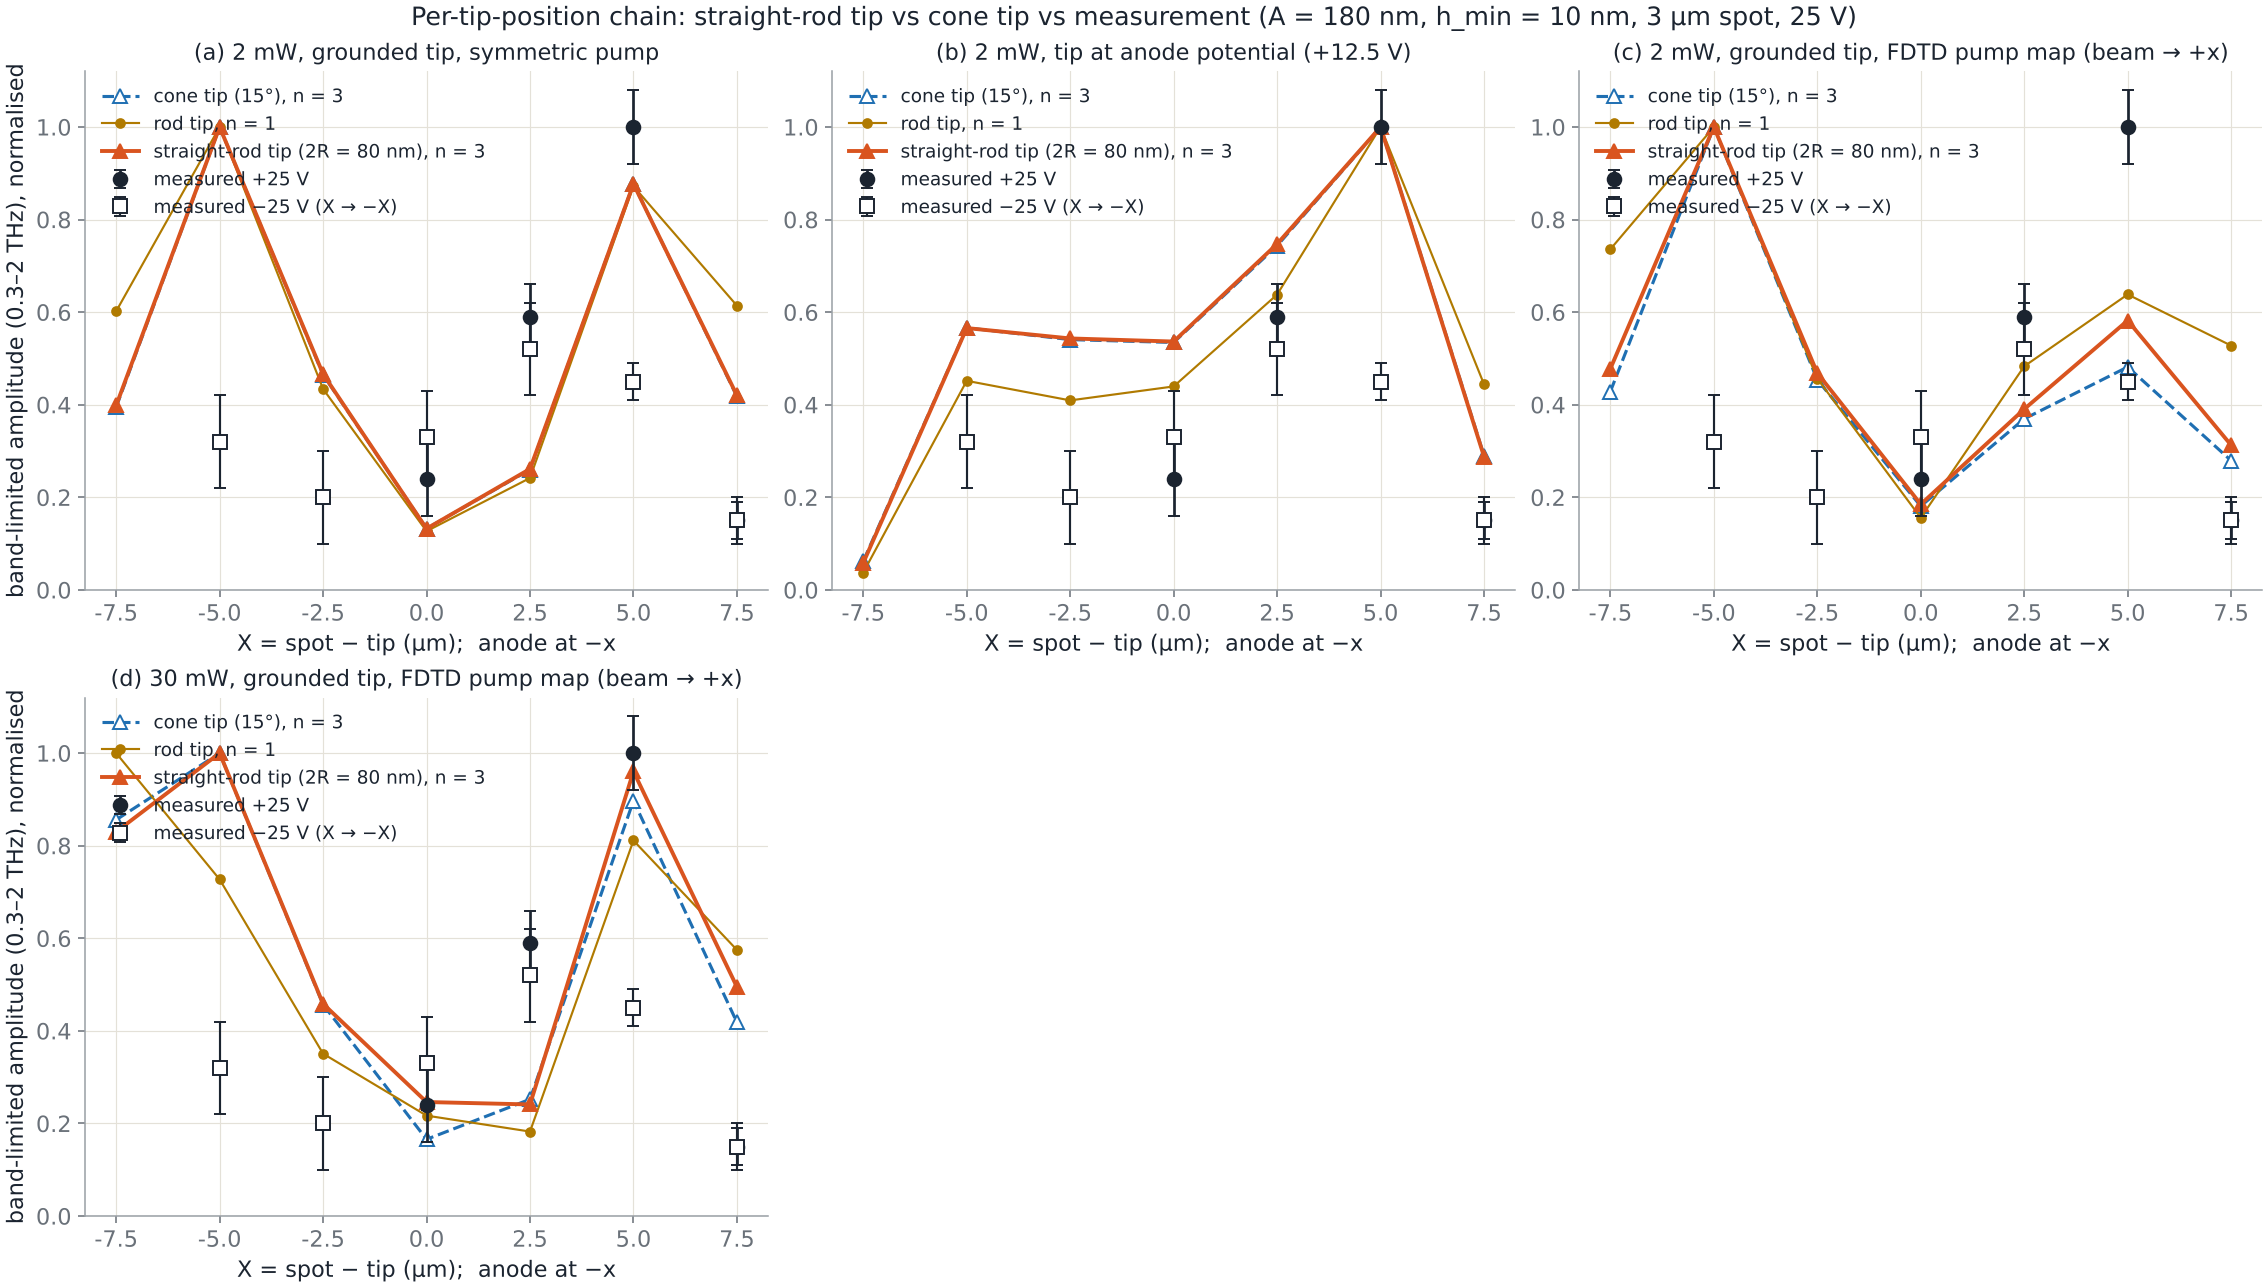
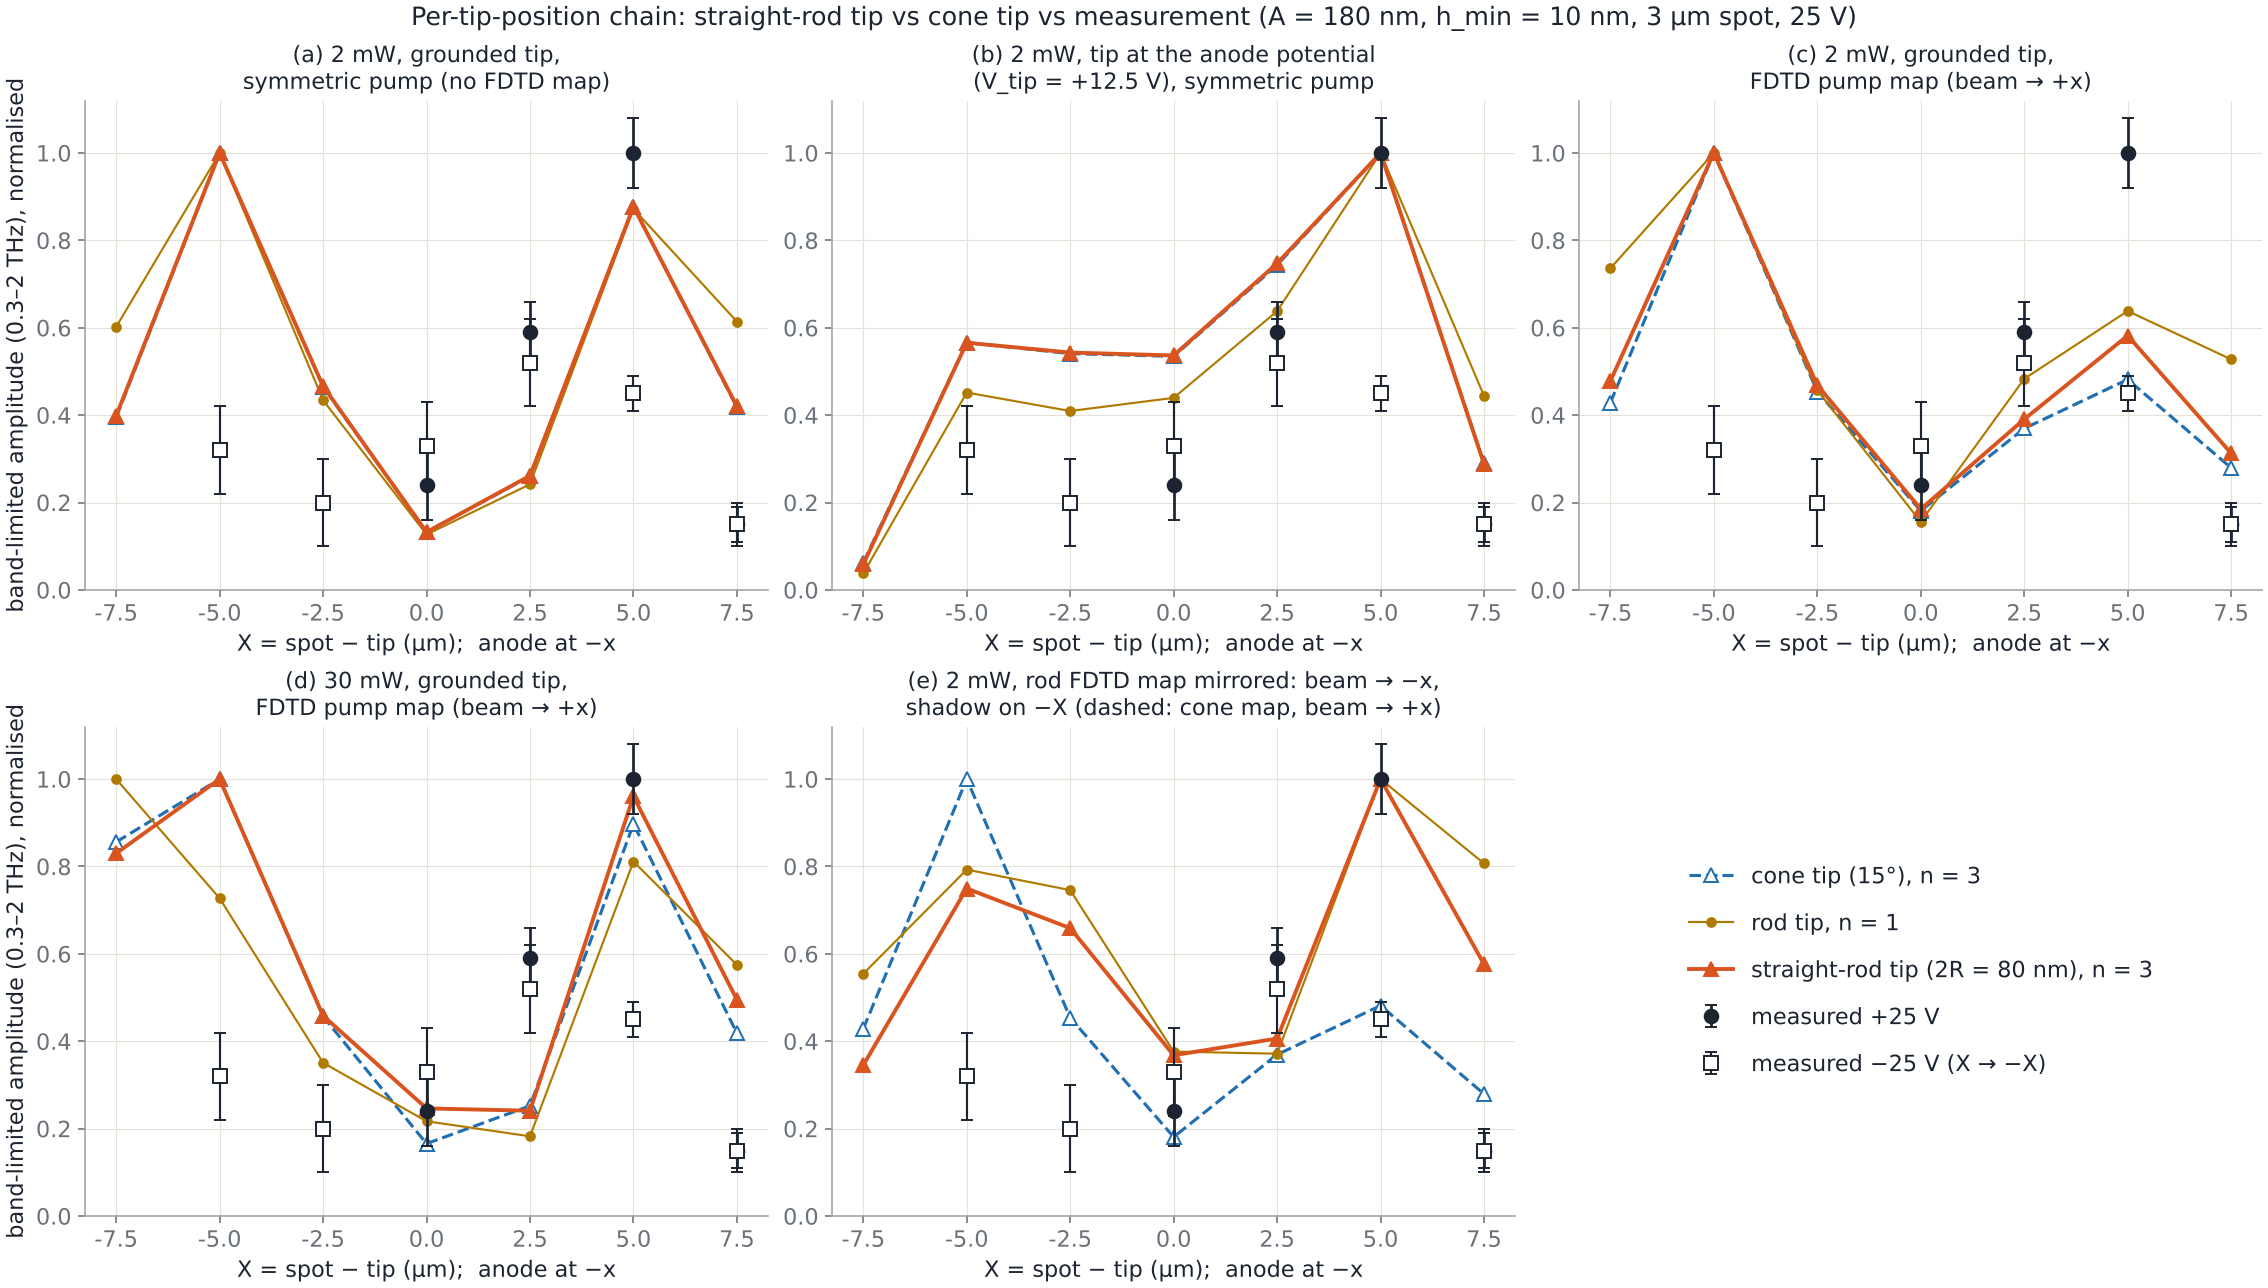
Rod tip with the x-mirrored pump map (beam toward -x): 0.35/0.75/0.66/0.37/0.41/1.00/0.58; docs section on the rod tip
Comparison figure: one panel per variant, shared legend; summary table and conclusions in docs/pulse_chain.md.

Claude-Session: https://claude.ai/code/session_01MEJWfDtRzYiPnCVcDujiXb

diff --git a/scripts/compare_tip_shape.py b/scripts/compare_tip_shape.py
@@ -32,11 +32,11 @@ plt.rcParams.update({"axes.unicode_minus": False, "axes.spines.top": False, "axe
                      "font.size": 11.5, "axes.titlesize": 12.5, "axes.labelsize": 11.5, "legend.fontsize": 9.5,
                      "savefig.facecolor": "white", "figure.facecolor": "white", "axes.facecolor": "white"})
 
-DEFAULT_PAIRS = (("2 mW, grounded tip, symmetric pump", "P2mW_sym", "P2mW_sym_rod"),
-                 ("2 mW, tip at anode potential (+12.5 V)", "P2mW_sym_Vtip12", "P2mW_sym_Vtip12_rod"),
-                 ("2 mW, grounded tip, FDTD pump map (beam → +x)", "P2mW_tipmap", "P2mW_tipmap_rod"),
-                 ("30 mW, grounded tip, FDTD pump map (beam → +x)", "P30mW_tipmap", "P30mW_tipmap_rod"),
-                 ("2 mW, rod map mirrored (beam → −x, shadow on −X)", "P2mW_tipmap", "P2mW_tipmap_rod_mirror"))
+DEFAULT_PAIRS = (("2 mW, grounded tip,\nsymmetric pump (no FDTD map)", "P2mW_sym", "P2mW_sym_rod"),
+                 ("2 mW, tip at the anode potential\n(V_tip = +12.5 V), symmetric pump", "P2mW_sym_Vtip12", "P2mW_sym_Vtip12_rod"),
+                 ("2 mW, grounded tip,\nFDTD pump map (beam → +x)", "P2mW_tipmap", "P2mW_tipmap_rod"),
+                 ("30 mW, grounded tip,\nFDTD pump map (beam → +x)", "P30mW_tipmap", "P30mW_tipmap_rod"),
+                 ("2 mW, rod FDTD map mirrored: beam → −x,\nshadow on −X (dashed: cone map, beam → +x)", "P2mW_tipmap", "P2mW_tipmap_rod_mirror"))
 
 measured = load_measured(os.path.join(ROOT, "data", "measured_tip_scan.csv"))
 
@@ -60,7 +60,7 @@ def table(pairs):
         sc, sr = load(cone), load(rod)
         if sc is None and sr is None:
             continue
-        lines.append(f"\n## {label}")
+        lines.append(f"\n## {label.replace(chr(10), ' ')}")
         X = (sr or sc)["X"]
         lines.append("| run | " + " | ".join(f"X = {x:+g}" for x in X) + " | abs. max (n=3) |")
         lines.append("|---|" + "---|" * (len(X) + 1))
@@ -99,9 +99,13 @@ def figure(pairs, out):
         if j % ncol == 0:
             ax.set_ylabel("band-limited amplitude (0.3–2 THz), normalised")
         ax.set_ylim(0, 1.12); ax.set_xticks(X)
-        ax.legend(loc="upper left")
+    handles, labels = axs[0, 0].get_legend_handles_labels()
     for k in range(n, nrow * ncol):
         axs[k // ncol, k % ncol].axis("off")
+    if n < nrow * ncol:                       # legend in the empty slot
+        axs[-1, -1].legend(handles, labels, loc="center", fontsize=11.5, labelspacing=1.1)
+    else:
+        fig.legend(handles, labels, loc="outside lower center", ncol=5, fontsize=10.5)
     fig.suptitle("Per-tip-position chain: straight-rod tip vs cone tip vs measurement (A = 180 nm, h_min = 10 nm, 3 µm spot, 25 V)", fontsize=13)
     fig.savefig(out, dpi=140)
     return out

diff --git a/docs/pulse_chain.md b/docs/pulse_chain.md
@@ -213,3 +213,41 @@ Same analysis as for the measured ±25 V traces (FFT phase in 0.25–1.6 THz, fi
   only near V_tip ≈ 4 V (E/O ≈ 0.7), where one member of the pair is 4× weaker. The measured mirror pairs are
   ≈ 90° apart with equal amplitudes, which needs a term in quadrature (differing by one time derivative) — not
   present in the chain. Table: `results/tip_positions/waveform_phase_table.txt`.
+
+## Straight-rod tip (2026-10-29, `tip_shape="rod"` in `FDTDConfig` / `PulseConfig`; `scripts/compare_tip_shape.py`, `scripts/fig_fdtd_tip_shape.py`)
+
+The rod is the apex sphere (R = 40 nm) plus a straight shank of width 2R = 80 nm (the Poisson grid resolves it as one
+0.1 µm column; the cone widens to a 7.65 µm half-width at the top of the 30 µm air box). Same settings as the cone runs
+otherwise (3 µm spot, degenerate diffusion 300 K, anode at −x, A = 180 nm, h_min = 10 nm, band-limited amplitude).
+
+Band-limited amplitude, n = 3, normalised (X = −7.5 … +7.5 µm):
+
+| variant | cone | rod |
+|---|---|---|
+| 2 mW, grounded tip, symmetric pump | 0.39 / 1.00 / 0.46 / 0.13 / 0.26 / 0.88 / 0.42 | 0.40 / 1.00 / 0.47 / 0.13 / 0.26 / 0.88 / 0.42 |
+| 2 mW, V_tip = +12.5 V, symmetric pump | 0.06 / 0.57 / 0.54 / 0.53 / 0.74 / 1.00 / 0.29 | 0.06 / 0.57 / 0.54 / 0.54 / 0.75 / 1.00 / 0.29 |
+| 30 mW, grounded tip, symmetric pump, X = ±5 only | −5 : +5 = 1.00 : 0.76 | 1.00 : 0.76 |
+| 2 mW, FDTD pump map of the same shape (beam → +x) | 0.43 / 1.00 / 0.45 / 0.18 / 0.37 / 0.48 / 0.28 | 0.48 / 1.00 / 0.47 / 0.18 / 0.39 / 0.58 / 0.31 |
+| 30 mW, FDTD pump map (beam → +x) | 0.86 / 1.00 / 0.46 / 0.17 / 0.25 / 0.90 / 0.42 | 0.83 / 1.00 / 0.46 / 0.25 / 0.24 / 0.96 / 0.49 |
+| 2 mW, rod map mirrored (beam → −x, shadow on −X) | — | 0.35 / 0.75 / 0.66 / 0.37 / 0.41 / 1.00 / 0.58 |
+| measured +25 V | – / ≈0 / – / 0.24 / 0.59 / 1.00 / 0.15 | |
+
+* **Carrier/Poisson stage: no difference.** With the tip as an equipotential body, the rod and the cone give the same
+  demodulated scans to 1 % (normalised) and 1–3 % (absolute, rod slightly larger); the raw induced charge Q_tip(t) at
+  X = +5, h = 10 nm differs by 0.6 %. The (X, h)-dependent part of the induced charge comes from the apex region; the
+  shank (142 vs 1500 tip cells) contributes a nearly height-independent charge that the harmonic demodulation removes.
+  This also holds for the DC tip potential (V_tip = +12.5 V): the one-sidedness it produces comes from the apex field.
+* **Pump FDTD: smaller but not vanishing shadow.** Absorbed fraction with the rod 0.635 (h = 10 nm) … 0.659 (370 nm),
+  with the wedge 0.45 … 0.52, no tip 0.73 (`results/fdtd_pump/fdtd_tip_shape.png`). In 2-D the rod is still a metal
+  sheet along y, so the +x side stays shadowed (column generation 0.03–0.06 at x = 0.5–1.5 µm vs 0.01–0.03 for the
+  wedge); the shadow ends by x ≈ 3 µm instead of beyond 4 µm, and the −x reflection bands off the flat shank are
+  stronger (up to 5–6× vs 3×). A real 80 nm cylinder shadows only an ~80 nm stripe of the ~2 µm (y) spot, so the 2-D
+  rod map remains an upper bound; a BOR/3-D FDTD is needed for the real number.
+* **Through the chain** the rod map restores part of the X = +5 lobe at 2 mW (0.58 vs 0.48 with the wedge map, 0.88
+  without a map); at 30 mW the density cap flattens the spot and the two maps give the same scan.
+* **Shadow side.** The maps assume the beam travelling toward +x, which shadows the X > 0 (anode-side) positions —
+  the side the measurement finds strongest. The user's experimental hypothesis (Oct 23) is that the tip shadows the
+  pump at −X, i.e. the beam travels toward −x. With the rod map mirrored the scan becomes 0.35 / 0.75 / 0.66 / 0.37 /
+  0.41 / 1.00 / 0.58: the anode side wins (as measured), the cathode lobe is reduced to 0.75 (measured ≈ 0) and the
+  centre and ±2.5 positions are lifted by the reflection bands. The beam direction relative to the electrodes must be
+  recorded.

diff --git a/results/tip_positions/compare_tip_shape.md b/results/tip_positions/compare_tip_shape.md
@@ -1,6 +1,6 @@
 # Straight-rod tip vs cone tip (per-tip-position chain)
 
-## 2 mW, grounded tip, symmetric pump
+## 2 mW, grounded tip, symmetric pump (no FDTD map)
 | run | X = -7.5 | X = -5 | X = -2.5 | X = +0 | X = +2.5 | X = +5 | X = +7.5 | abs. max (n=3) |
 |---|---|---|---|---|---|---|---|---|
 | cone, n = 1 | 0.61 | 1.00 | 0.44 | 0.13 | 0.24 | 0.87 | 0.62 | |
@@ -15,7 +15,7 @@
 | rod, far field dJ/dt | 0.76 | 1.00 | 0.99 | 0.95 | 0.97 | 0.99 | 0.79 | |
 | rod / cone, absolute n = 3 maximum |  |  |  |  |  |  |  | 1.03 |
 
-## 2 mW, tip at anode potential (+12.5 V)
+## 2 mW, tip at the anode potential (V_tip = +12.5 V), symmetric pump
 | run | X = -7.5 | X = -5 | X = -2.5 | X = +0 | X = +2.5 | X = +5 | X = +7.5 | abs. max (n=3) |
 |---|---|---|---|---|---|---|---|---|
 | cone, n = 1 | 0.04 | 0.45 | 0.41 | 0.44 | 0.64 | 1.00 | 0.46 | |
@@ -60,7 +60,7 @@
 | rod, far field dJ/dt | 0.75 | 0.74 | 0.95 | 0.96 | 0.97 | 1.00 | 0.68 | |
 | rod / cone, absolute n = 3 maximum |  |  |  |  |  |  |  | 1.01 |
 
-## 2 mW, rod map mirrored (beam → −x, shadow on −X)
+## 2 mW, rod FDTD map mirrored: beam → −x, shadow on −X (dashed: cone map, beam → +x)
 | run | X = -7.5 | X = -5 | X = -2.5 | X = +0 | X = +2.5 | X = +5 | X = +7.5 | abs. max (n=3) |
 |---|---|---|---|---|---|---|---|---|
 | cone, n = 1 | 0.67 | 1.00 | 0.46 | 0.18 | 0.49 | 0.59 | 0.46 | |
@@ -68,5 +68,11 @@
 | cone, n = 3 | 0.43 | 1.00 | 0.45 | 0.18 | 0.37 | 0.48 | 0.28 | 4.659e+14 |
 | cone, n = 4 | 0.42 | 1.00 | 0.53 | 0.21 | 0.42 | 0.53 | 0.27 | |
 | cone, far field dJ/dt | 0.68 | 0.81 | 0.78 | 0.95 | 1.00 | 0.82 | 0.60 | |
+| rod, n = 1 | 0.55 | 0.79 | 0.75 | 0.38 | 0.37 | 1.00 | 0.81 | |
+| rod, n = 2 | 0.39 | 0.75 | 0.70 | 0.39 | 0.41 | 1.00 | 0.65 | |
+| rod, n = 3 | 0.35 | 0.75 | 0.66 | 0.37 | 0.41 | 1.00 | 0.58 | 4.273e+14 |
+| rod, n = 4 | 0.34 | 0.78 | 0.69 | 0.36 | 0.38 | 1.00 | 0.55 | |
+| rod, far field dJ/dt | 0.58 | 0.81 | 1.00 | 0.91 | 0.79 | 0.81 | 0.74 | |
+| rod / cone, absolute n = 3 maximum |  |  |  |  |  |  |  | 0.92 |
 measured +25 V: X = +0: 0.24 ± 0.08, X = +2.5: 0.59 ± 0.07, X = +5: 1.00 ± 0.08, X = +7.5: 0.15 ± 0.04
 measured -25 V: X = +7.5: 0.15 ± 0.05, X = +5: 0.45 ± 0.04, X = +2.5: 0.52 ± 0.10, X = +0: 0.33 ± 0.10, X = -2.5: 0.20 ± 0.10, X = -5: 0.32 ± 0.10  (X → −X)
